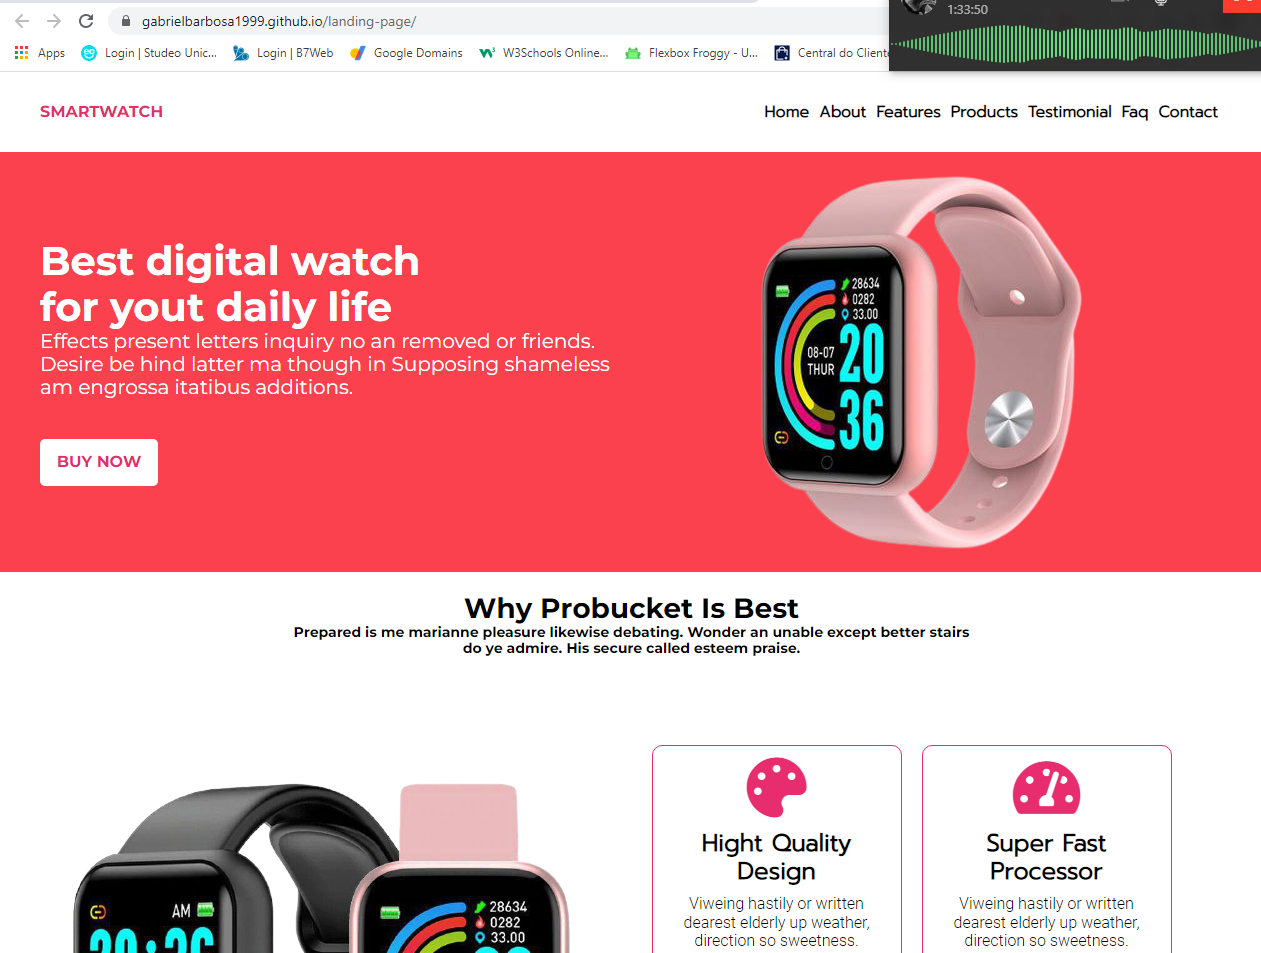
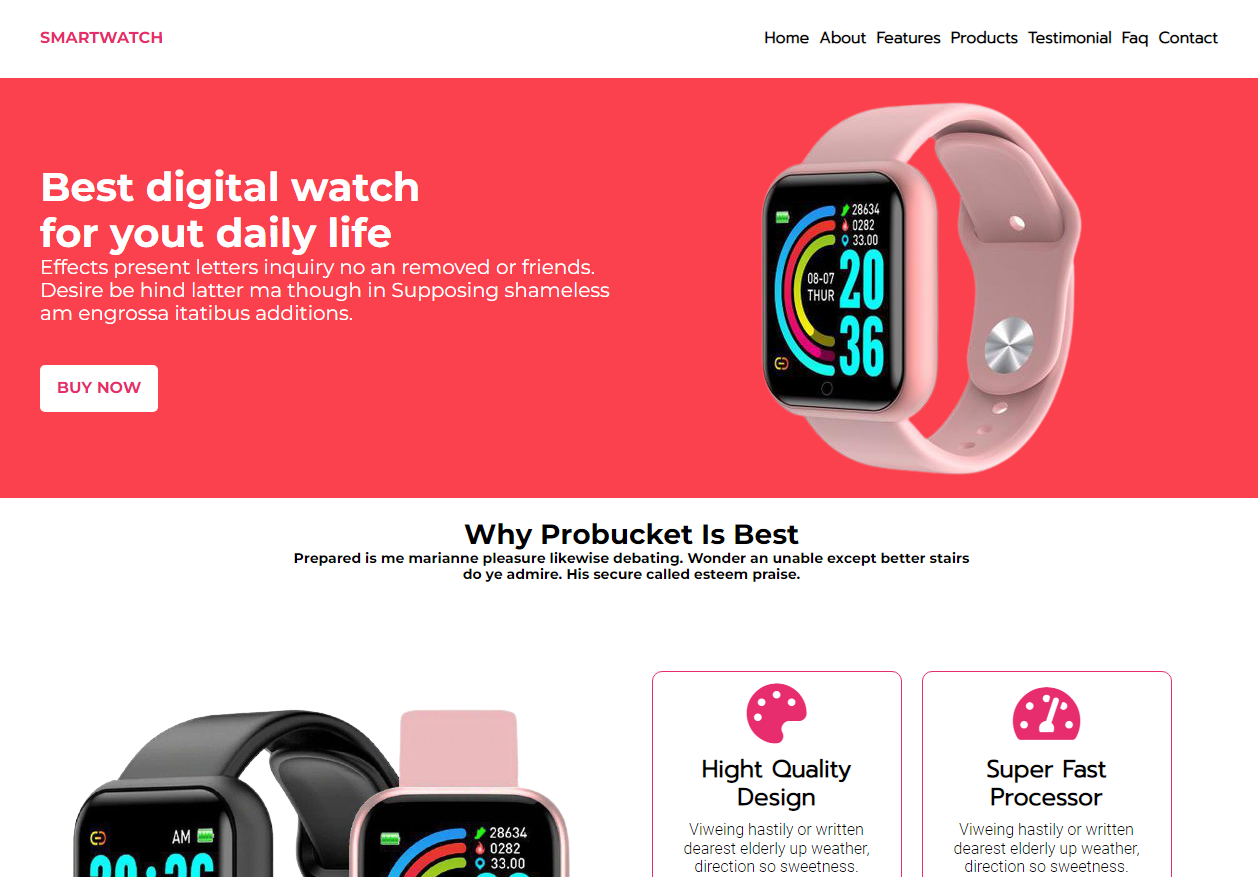
Site Finalizado

diff --git a/assets/css/style.css b/assets/css/style.css
@@ -85,6 +85,7 @@ header {
     font-size: 70px;
     font-weight: 300;
     color: #fff;
+    text-align: center;
 }
 
 .banner h1 span {
@@ -98,6 +99,7 @@ header {
     font-weight: 300;
     color: #fff;
     text-transform: uppercase;
+    text-align: center;
 }
 
 .container {
@@ -291,7 +293,7 @@ footer {
     color: #fff;
 }
 
-@media (min-width: 426px) and (max-width: 900px) {
+@media (min-width: 601px) and (max-width: 900px) {
     .sobre--img {
         padding: 25px;
     }
@@ -307,13 +309,45 @@ footer {
     }
 }
 
-@media (max-width: 425px) {
+@media (min-width: 426px) and (max-width: 600px) {
+    .sobre--img {
+        padding: 25px;
+    }
+    .sobre--img img {
+        max-width: 250px;
+    }
+
+    .sobre--body {
+        padding: 25px;
+    }
+    .sobre-content {
+        grid-template-columns: repeat(auto-fill, 100%);
+    }
+    .menu-bars {
+        display: block;
+        font-size: 24px;
+    }
+    .menu nav {
+        display: none;
+        position: absolute;
+        top: 70px;
+        right: 0;
+        height: calc(100vh - 70px);
+        background-color: rgba(0, 0, 0, 0.8);
+        z-index: 99;
+        width: 50vw;
+    }
+    .menu ul {
+        flex-direction: column;
+    }
+    .menu a {
+        margin: 15px;
+    }
+}
+
+@media (min-width:321px) and (max-width: 425px) {
     .banner-container {
         padding: 20px;
-    }
-    
-    .banner h1 {
-        text-align: center;
     }
 
     .banner h2 {
@@ -366,5 +400,92 @@ footer {
     }
     .menu a {
         margin: 15px;
+    }
+}
+
+
+@media (max-width: 320px) {
+    .logo {
+        font-size: 25px;
+    }
+
+    .logo span {
+        font-size: 25px;
+    }
+
+    .banner-container {
+        padding: 20px;
+    }
+    
+    .banner h1 {
+        font-size: 55px;
+    }
+
+    .banner h2 {
+        font-size: 23px;
+    }
+
+    .sobre--img {
+        padding: 0x;
+    }
+    .sobre--img img {
+        max-width: 250px;
+    }
+
+    .sobre-content {
+        grid-template-columns: repeat(auto-fill, 100%);
+    }
+    .sobre--body {
+        padding: 30px;
+    }
+
+    .portfolio-content--photo {
+        margin-top: 15px;
+    }
+
+    .servicos-item i {
+        font-size: 55px;
+    }
+    .servicos-item .servicos--title {
+        font-size: 20px;
+    }
+    .servicos-item .servicos--body {
+        font-size: 14pxx;
+    }
+    .menu-bars {
+        display: block;
+        font-size: 24px;
+    }
+    .menu nav {
+        display: none;
+        position: absolute;
+        top: 70px;
+        right: 0;
+        height: calc(100vh - 70px);
+        background-color: rgba(0, 0, 0, 0.8);
+        z-index: 99;
+        width: 50vw;
+    }
+    .menu ul {
+        flex-direction: column;
+    }
+    .menu a {
+        margin: 15px;
+    }
+
+    .contato-content {
+        font-size: 14px;
+    }
+    .contato-content a {
+        display: block;
+        color: #fff;
+        text-decoration: none;
+        font-size: 18px;
+        font-family: 'Open Sans', sans-serif;
+        color: #fff;
+    }
+
+    footer {
+        font-size: 16px;
     }
 }

diff --git a/index.html b/index.html
@@ -59,8 +59,7 @@
                     </div>
                     <div class="sobre--body">
                         Meu nome é Gabriel Barbosa, sou desenvolvedor Full Stack, com 2 anos de experiência.<br />
-                        Sempre fui apaixonado por progamacao, em busca de um sonho, recolocação e construção de uma carreira na área da TI, iniciei a
-                        graduação tecnológica em Análise e Desenvolvimento de Sistemas.
+                        Sempre fui apaixonado por programação, em busca de um sonho: recolocação e construção de uma carreira na área da TI. Iniciei a graduação tecnológica em Análise e Desenvolvimento de Sistemas.
                         <br /><br />
                         Possuo habilidades em HTML, CSS, JavaScript, React, React Native e Node...
                     </div>
